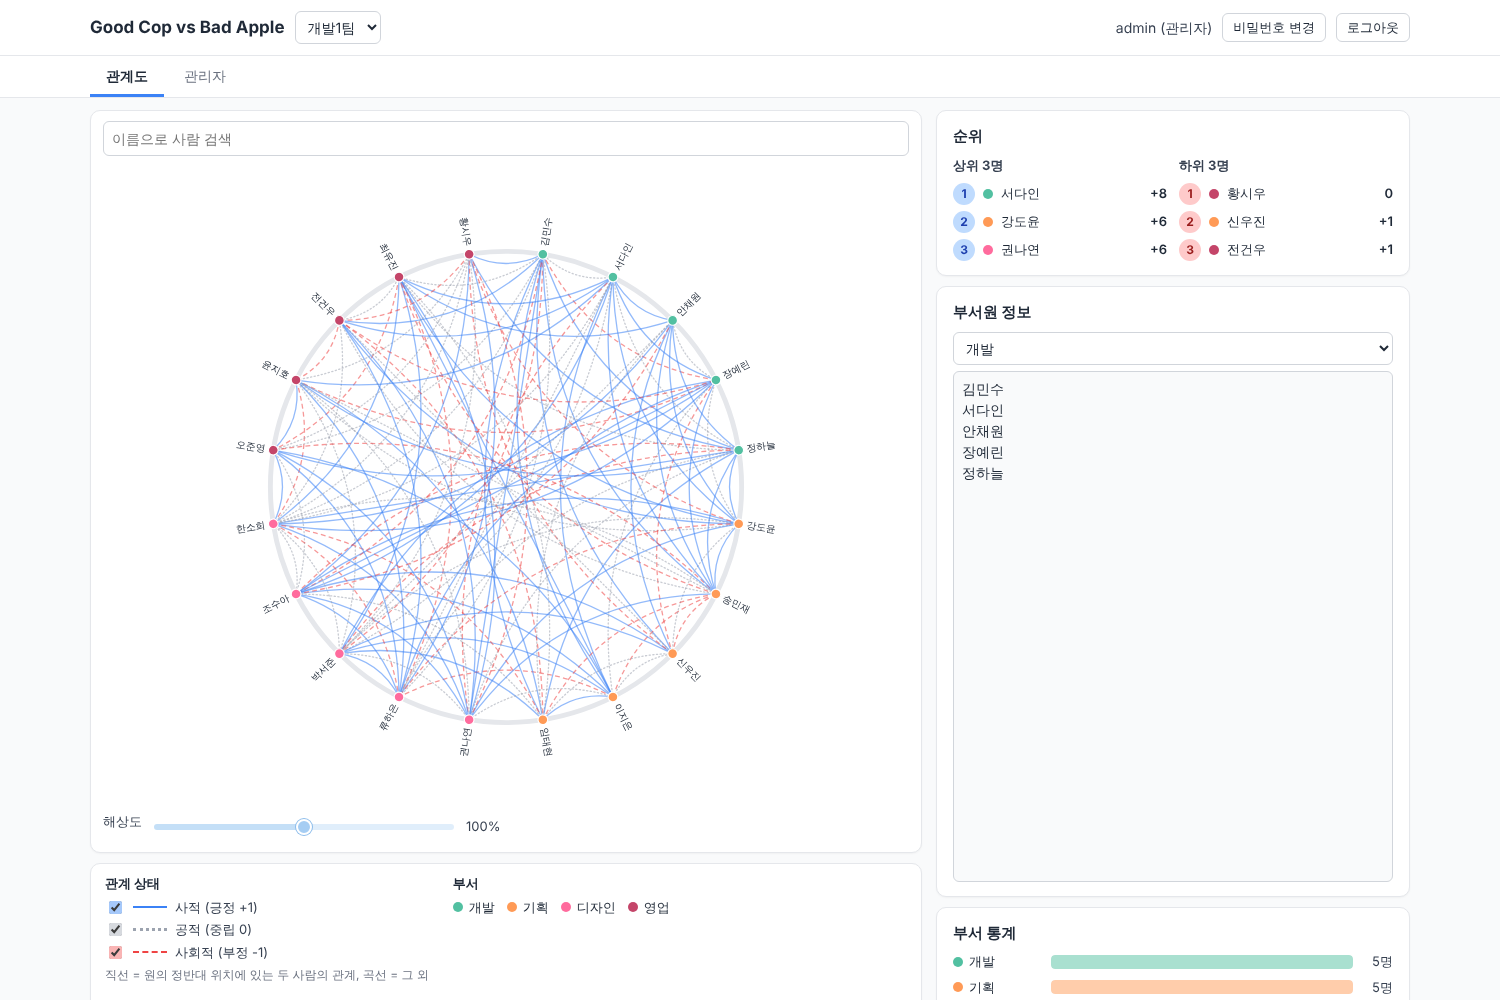
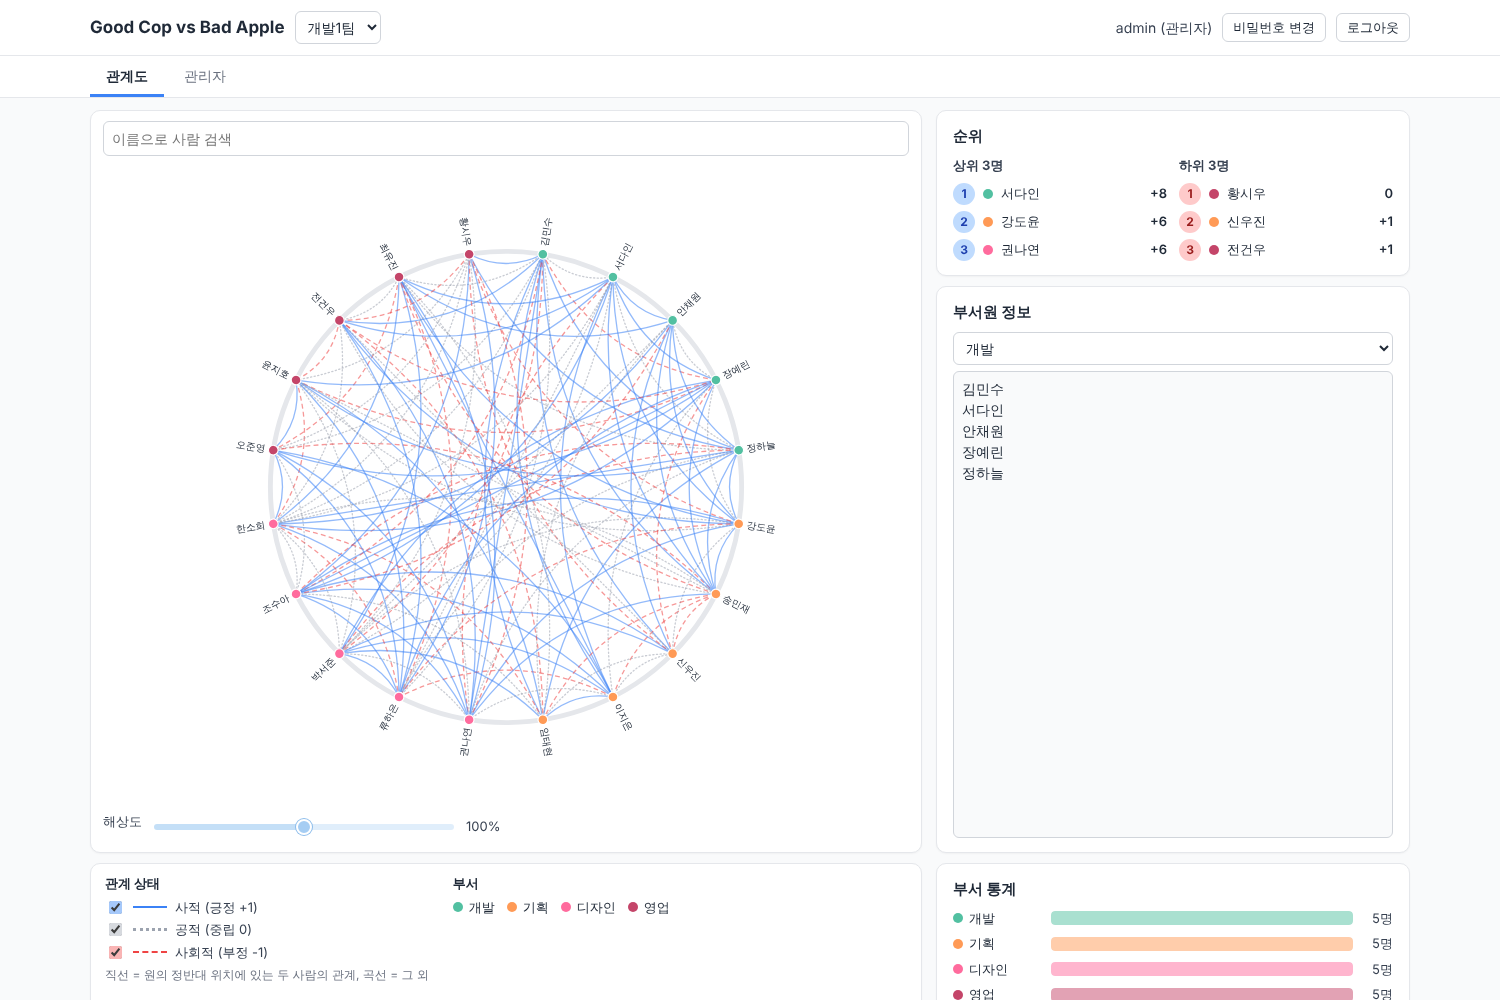
Admin view: match department stats card height to the legend card
Claude-Session: https://claude.ai/code/session_01DsfKjRFUmAajqSco24Yp3e

Changed region(s): [[0.6133, 0.868, 0.9507, 1.0]]

diff --git a/public/style.css b/public/style.css
@@ -183,8 +183,8 @@ input:focus-visible, select:focus-visible, textarea:focus-visible, button:focus-
 .side-column.aligned > .card { flex: 0 0 auto; }
 .side-column.aligned.admin > .panel-info,
 .side-column.aligned.member > #panel-my-relations { flex: 1 1 0; min-height: 0; height: auto; max-height: none; }
-/* 관리자: 부서 통계는 내용 높이만큼만 */
-.side-column.aligned.admin > .panel-stats { height: auto; min-height: 0; }
+/* 관리자: 부서 통계는 왼쪽 관계 상태 카드(.legend-card)와 같은 높이 */
+.side-column.aligned.admin > .panel-stats { height: calc(23vh - 30px); min-height: 110px; }
 .rel-form label { margin-bottom: 6px; }
 .status-radios { border: 0; padding: 0; margin: 4px 0; display: flex; gap: 12px; flex-wrap: nowrap; }
 .status-radios label { flex-direction: row; align-items: center; gap: 4px; margin: 0; white-space: nowrap; font-size: 13px; cursor: pointer; }
